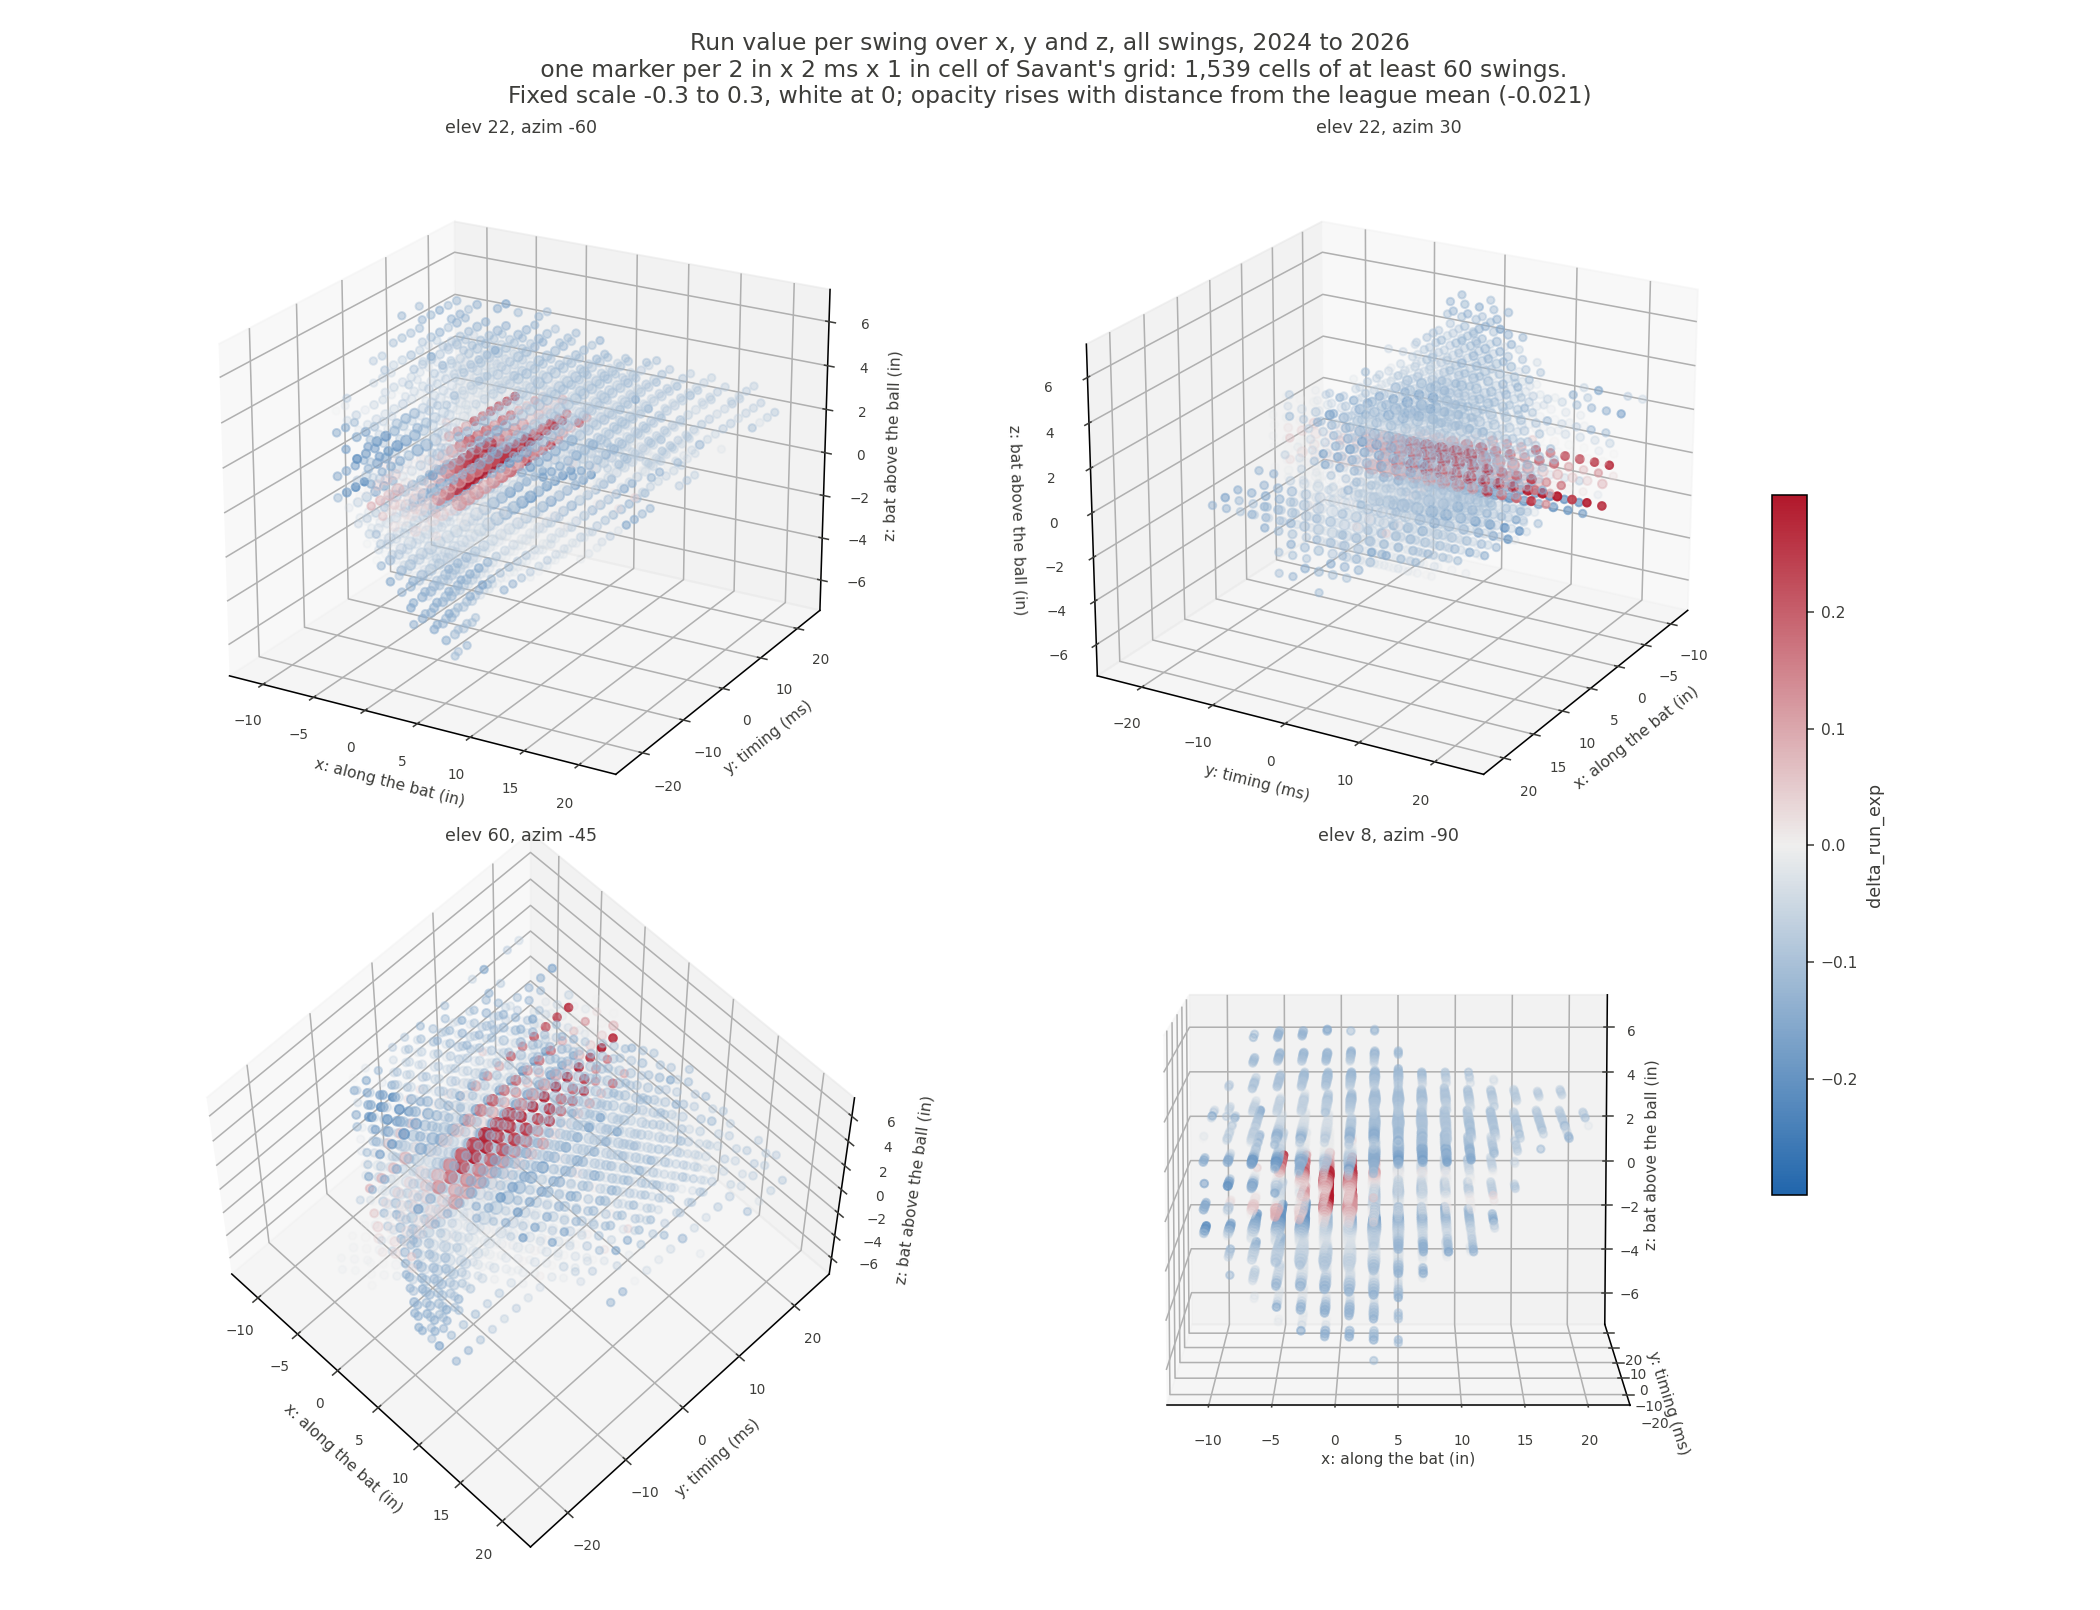
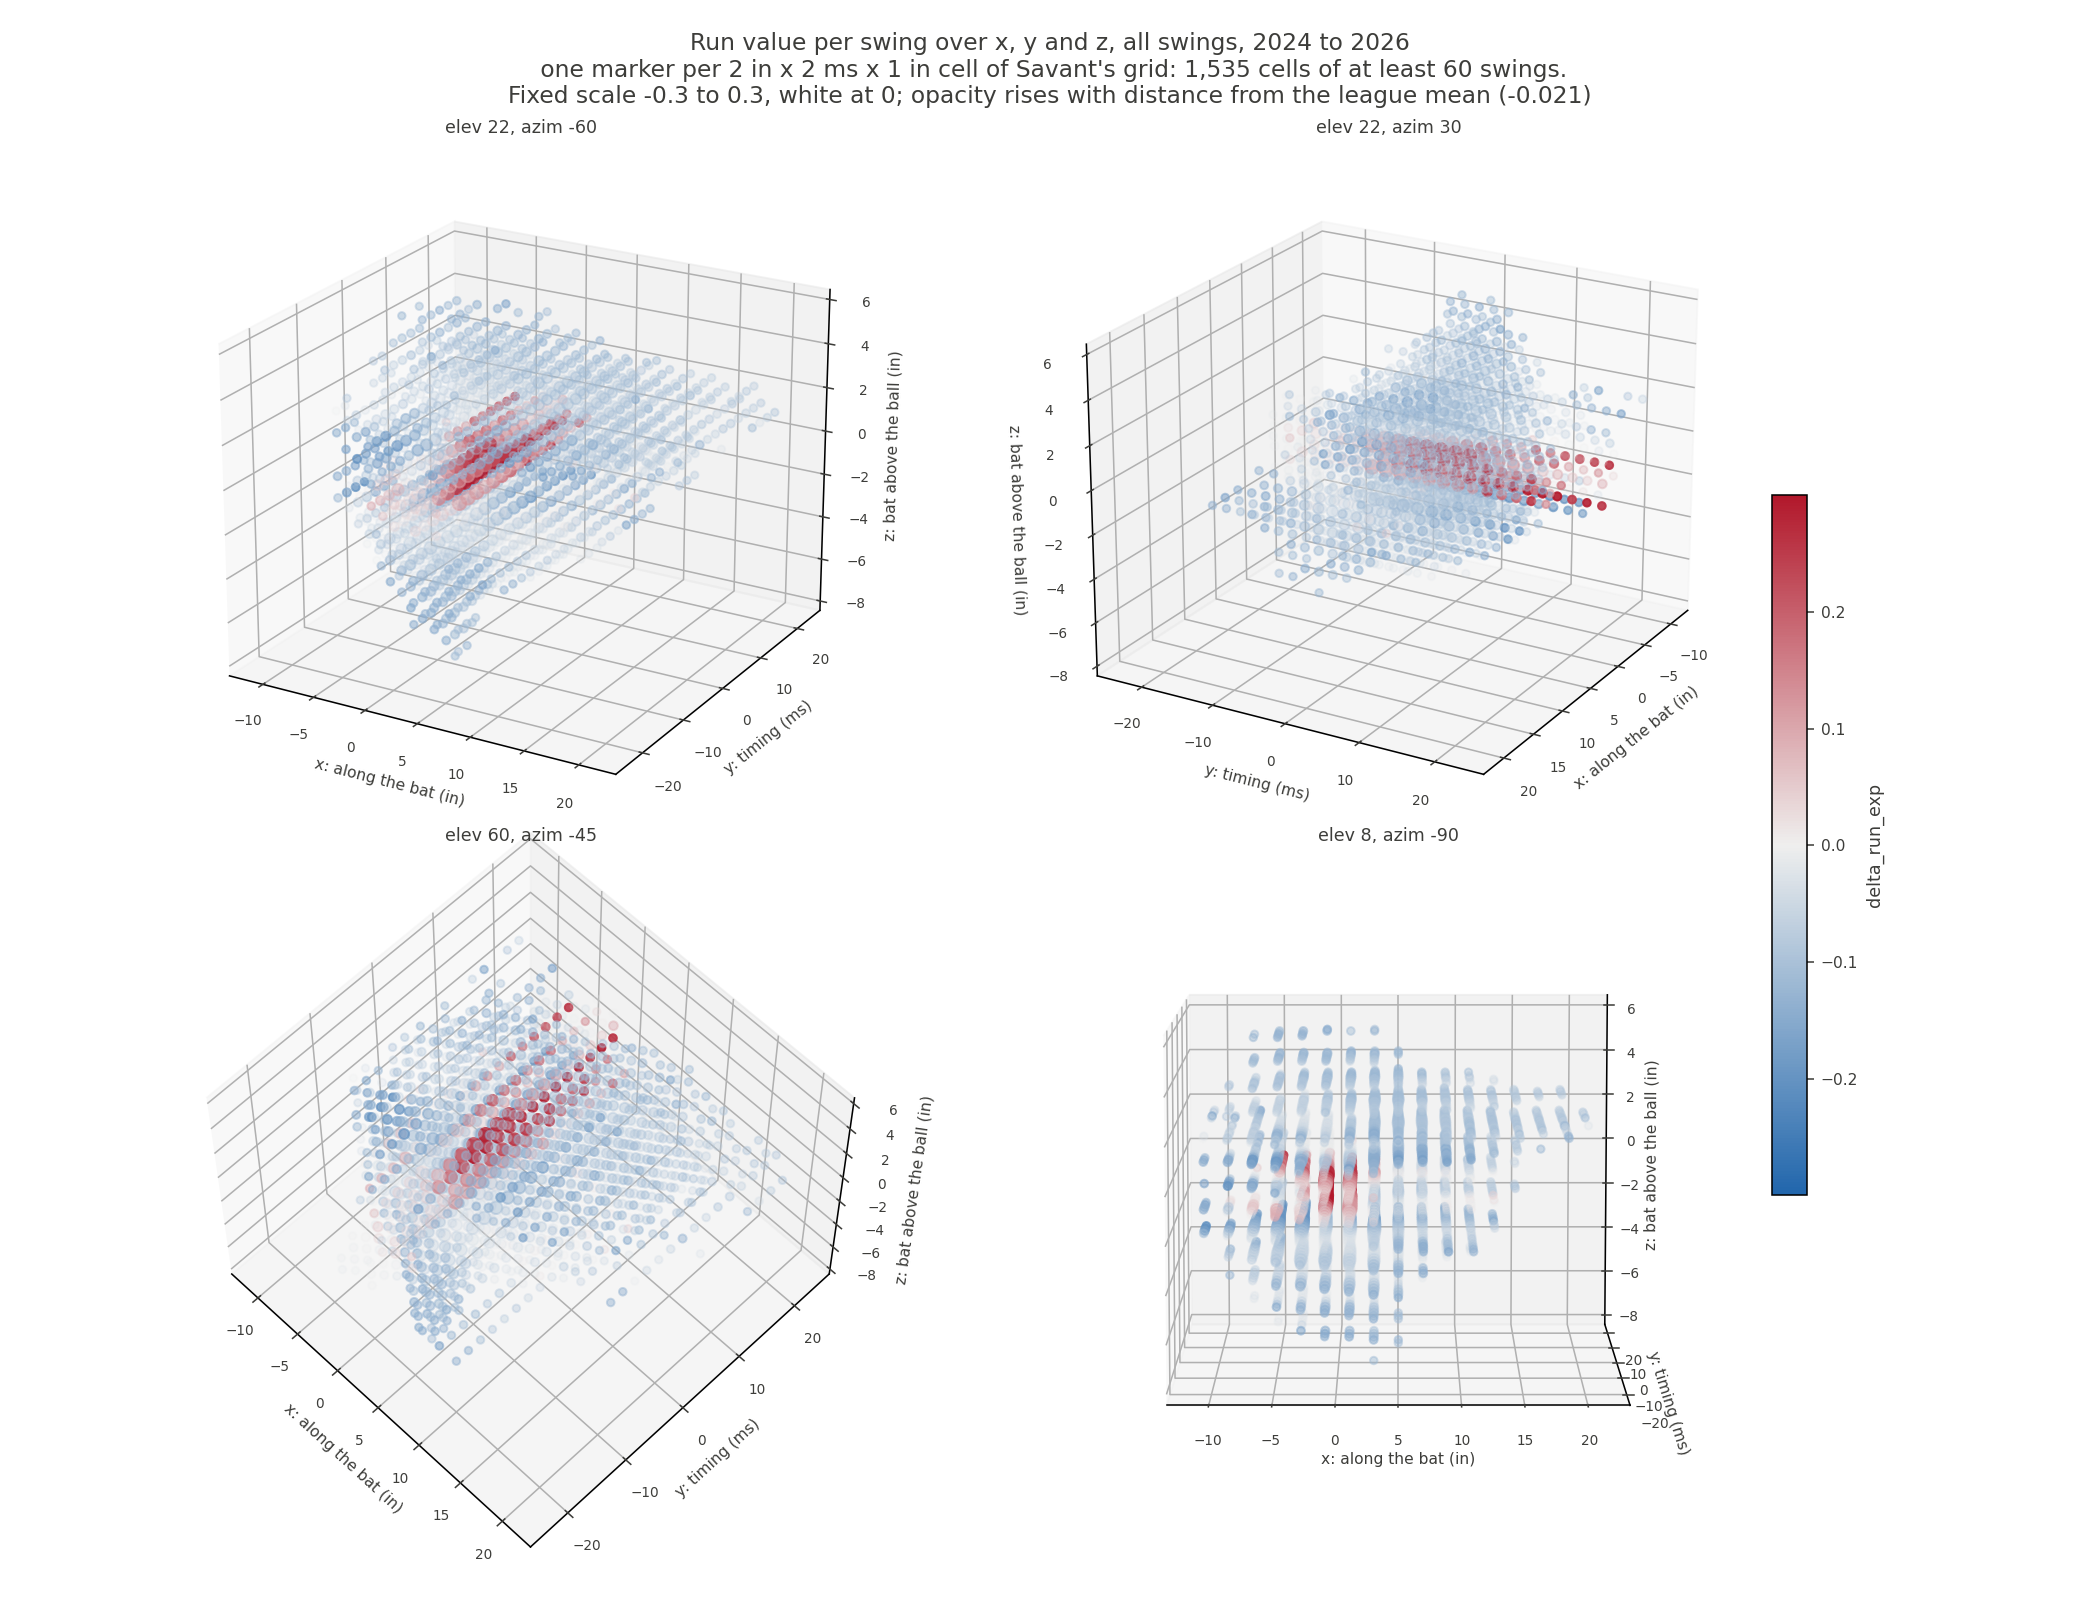
Fix an off-by-one-bin error in the z flip, and show why under beats over
to_bin names a bin by its LOWER EDGE, so mirroring a bin means negating the
edge AND subtracting the width. Negating the label alone filed every z cell one
whole inch from the data it held: a stored z of +0.62 draws at -0.62, and the
label flip put it in a bin covering [-0.5, +0.5). The 3D figures disagreed with
the hexbins by an inch while both looked plausible; the hexbins were right,
because they flip the raw value.

Also documents the asymmetry the figures show: the best contact on balls in play
is made with the bat about three quarters of an inch under the ball, worth .679
in expected wOBA, and one inch under (.584) beats one inch over (.179) by a wide
margin. Launch angle runs monotonically through zero, so slightly under puts the
ball in the air at the angle that pays while slightly over puts it in the ground.

110 tests pass, 7 skip without the cached pulls.

Changed region(s): [[0.0929, 0.528, 0.4024, 0.7764], [0.5571, 0.7453, 0.5881, 0.8075], [0.7119, 0.7453, 0.7429, 0.7764]]

diff --git a/cp_lib/plots.py b/cp_lib/plots.py
@@ -38,8 +38,27 @@ DISPLAY_SIGN = {"x": 1.0, "y": 1.0, "z": -1.0}
 
 
 def to_display(axis: str, values):
-    """Savant's stored sign turned into the sign the figures are drawn in."""
+    """Savant's stored sign turned into the sign the figures are drawn in.
+
+    For raw VALUES only. A bin LABEL is its lower edge, and negating a lower
+    edge gives an upper edge, which lands the bin a full width away from the
+    value it is supposed to hold. Bin a displayed value, or use to_display_bin.
+    """
     return np.asarray(values, float) * DISPLAY_SIGN[axis]
+
+
+def to_display_bin(axis: str, lower_edges):
+    """Flip a bin named by its LOWER EDGE, keeping the bin over its own data.
+
+    Bin [lo, lo+w) mirrors to (-lo-w, -lo], whose lower edge is -lo-w. Dropping
+    the width shifted every z cell one whole inch, which put the peak of the
+    xwOBA ridge in the wrong bin and made the 3D figures disagree with the
+    hexbins, which flip the value and never had the bug.
+    """
+    lo = np.asarray(lower_edges, float)
+    if DISPLAY_SIGN[axis] > 0:
+        return lo
+    return -lo - BINS[axis]
 THRESH = {"x": 4.0, "y": 7.0, "z": 2.0}
 NEG, MID, POS = "#b2182b", "#efefee", "#2166ac"
 # Savant's polarity: cold blue at the bottom of the scale, hot red at the top.
@@ -71,8 +90,8 @@ def _dress(ax):
 
 def _grid(cal, df, axes, value, min_n):
     a, b = axes
-    t = pd.DataFrame({"ba": to_display(a, to_bin(a, cal[f"{a}_cal"].to_numpy(float))),
-                      "bb": to_display(b, to_bin(b, cal[f"{b}_cal"].to_numpy(float))),
+    t = pd.DataFrame({"ba": to_bin(a, to_display(a, cal[f"{a}_cal"].to_numpy(float))),
+                      "bb": to_bin(b, to_display(b, cal[f"{b}_cal"].to_numpy(float))),
                       "v": df[value].to_numpy(float)}).dropna()
     if t.empty:
         return pd.DataFrame()
@@ -341,9 +360,9 @@ def cells3d(cal, df, value="estimated_woba_using_speedangle", min_n=25):
     to draw it. Shared by the static figure and the interactive one, which is
     the point: two views of one table cannot disagree.
     """
-    t = pd.DataFrame({"bx": to_display("x", to_bin("x", cal["x_cal"].to_numpy(float))),
-                      "by": to_display("y", to_bin("y", cal["y_cal"].to_numpy(float))),
-                      "bz": to_display("z", to_bin("z", cal["z_cal"].to_numpy(float))),
+    t = pd.DataFrame({"bx": to_bin("x", to_display("x", cal["x_cal"].to_numpy(float))),
+                      "by": to_bin("y", to_display("y", cal["y_cal"].to_numpy(float))),
+                      "bz": to_bin("z", to_display("z", cal["z_cal"].to_numpy(float))),
                       "v": df[value].to_numpy(float)}).dropna()
     if t.empty:
         return pd.DataFrame(columns=["bx", "by", "bz", "mean", "n"])
@@ -501,7 +520,7 @@ def league_bins_figure(table: pd.DataFrame, out_png: Path, min_n=100) -> Path:
     fig, axs = plt.subplots(2, 3, figsize=(20, 9), sharex="col")
     for col, axis in enumerate(("x", "y", "z")):
         t = table[table.axis == axis].copy()
-        t["bin"] = to_display(axis, t["bin"].to_numpy(float))
+        t["bin"] = to_display_bin(axis, t["bin"].to_numpy(float))
         t = t.sort_values("bin")
         w = BINS[axis]
         top, bot = axs[0][col], axs[1][col]

diff --git a/tests/test_contact_point_plots.py b/tests/test_contact_point_plots.py
@@ -445,3 +445,49 @@ def test_cells3d_z_is_drawn_on_the_flipped_sign():
     # the decisive half: no drawn bz equals a stored bz of the same nonzero value
     # unless its negation is also present
     assert all((-b) in stored for b in g["bz"])
+
+
+def test_a_flipped_bin_still_contains_its_own_value():
+    """Negating a bin LABEL is not the same as negating its data.
+
+    to_bin names a bin by its LOWER EDGE, so [lo, lo+w) mirrors to a bin whose
+    lower edge is -lo-w. Dropping the width shifted every z cell one whole inch
+    and moved the peak of the xwOBA ridge into the wrong bin, while the hexbins,
+    which flip the value, showed it correctly. The two disagreed by a bin.
+    """
+    from cp_lib.calibrate import to_bin, BINS
+    rng = np.random.default_rng(5)
+    for axis in ("x", "y", "z"):
+        v = rng.normal(0, 5, 4000)
+        drawn = plots.to_display(axis, v)
+        label = to_bin(axis, drawn)
+        w = BINS[axis]
+        assert np.all(label <= drawn + 1e-9), axis
+        assert np.all(drawn < label + w + 1e-9), axis
+
+
+def test_to_display_bin_agrees_with_binning_the_flipped_value():
+    from cp_lib.calibrate import to_bin
+    rng = np.random.default_rng(6)
+    for axis in ("x", "y", "z"):
+        v = rng.normal(0, 5, 4000)
+        from_value = to_bin(axis, plots.to_display(axis, v))
+        from_label = plots.to_display_bin(axis, to_bin(axis, v))
+        assert np.allclose(from_value, from_label), axis
+
+
+def test_cells3d_and_hexbin_agree_about_where_the_z_ridge_is():
+    """The 3D path bins, the hexbin path does not. They must not disagree."""
+    rng = np.random.default_rng(7)
+    n = 60000
+    cal = pd.DataFrame({"x_cal": rng.normal(0, 6, n), "y_cal": rng.normal(0, 10, n),
+                        "z_cal": rng.normal(0, 2.5, n)})
+    # Peak at STORED z = +1.0, deliberately NOT on a bin edge: a peak sitting on
+    # an edge gives the same label under both conventions and proves nothing.
+    # Correct: drawn value -1.0, which lives in the bin whose lower edge is -1.5.
+    v = np.exp(-((cal["z_cal"] - 1.0) ** 2) / 2.0)
+    df = pd.DataFrame({"estimated_woba_using_speedangle": v})
+    g = plots.cells3d(cal, df, "estimated_woba_using_speedangle", min_n=20)
+    prof = g.groupby("bz").apply(lambda t: np.average(t["mean"], weights=t["n"]))
+    peak = float(prof.idxmax())
+    assert peak == -1.5, f"the drawn peak landed at {peak}, expected -1.5"

diff --git a/README.md b/README.md
@@ -31,6 +31,23 @@ x needs no such flip. Tied up is negative for all 1,826 of Savant's own tail
 rows under both hands, because it measures handle against tip along the bat and
 does not care which side of the plate the batter stands on.
 
+On balls in play the best contact is made with the bat about three quarters of
+an inch UNDER the ball, not over it, and the gap is not close: one inch under is
+worth .584 in expected wOBA against .179 one inch over. Launch angle is the
+mechanism, and it runs monotonically through zero.
+
+| bat vs ball | expected wOBA | launch angle | exit velocity |
+|---|---|---|---|
+| 1.25 in under | .392 | +32 deg | 90.0 |
+| 0.75 in under | .679 | +22 deg | 93.7 |
+| lined up | .553 | +8 deg | 94.7 |
+| 0.75 in over | .251 | -6 deg | 91.2 |
+| 1.25 in over | .119 | -17 deg | 85.8 |
+
+Slightly under puts the ball in the air at the angle that pays. Slightly over
+puts it in the ground. There is no symmetric counterpart because there is no
+ideal ground ball.
+
 Only one of the three z bands pays. A swing more than 2 inches off its own
 plane almost never puts the ball in play: 1.4% of "over" swings and 3.4% of
 "under" ones do, against 59% of lined-up swings. Run value per swing follows,
